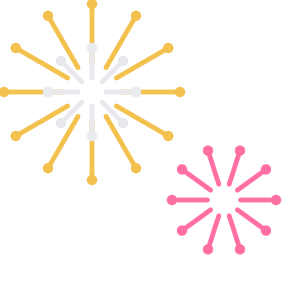
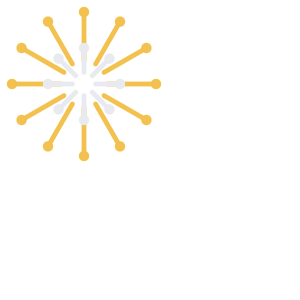
theme-pack: New Year: one burst per corner inside 100 px, a clock on sliders, streamers on chips

Changed region(s): [[0.0, 0.0, 0.63, 0.63], [0.54, 0.48, 0.96, 0.87]]

diff --git a/tools/theme-pack/packs/themes/newyear.js b/tools/theme-pack/packs/themes/newyear.js
@@ -1,17 +1,17 @@
 (function () {
-  // Midnight: confetti and sparkles drifting behind, a firework in each top corner, gold stars on panels and tiles, a gold star on every slider.
+  // Midnight: confetti and sparkles drifting behind, a firework in each top corner (kept inside 100 px so it clears panel titles), gold stars on panels, sparkles on tiles, streamers on chips and a clock on every slider.
   var SKY = '<svg style="position:absolute;left:468.6px;top:1017.4px;opacity:0.55" width="13" height="13" viewBox="0 0 24 24" aria-hidden="true"><g transform="rotate(321 12 12)"><rect x="6" y="3" width="12" height="18" rx="2" fill="#F2C14E"></rect></g></svg><svg style="position:absolute;left:1319.1px;top:283.5px;opacity:0.55" width="14" height="14" viewBox="0 0 24 24" aria-hidden="true"><circle cx="12" cy="12" r="8" fill="#E8EAF0"></circle></svg><svg style="position:absolute;left:679.1px;top:955.9px;opacity:0.55" width="20" height="20" viewBox="0 0 24 24" aria-hidden="true"><path d="M12 1C12.5 8 16 11.5 23 12C16 12.5 12.5 16 12 23C11.5 16 8 12.5 1 12C8 11.5 11.5 8 12 1Z" fill="#FF6FA3"></path></svg><svg style="position:absolute;left:1237.2px;top:927.8px;opacity:0.55" width="18" height="18" viewBox="0 0 24 24" aria-hidden="true"><g transform="rotate(132 12 12)"><rect x="6" y="3" width="12" height="18" rx="2" fill="#7CC4FF"></rect></g></svg><svg style="position:absolute;left:1835.9px;top:953.6px;opacity:0.55" width="12" height="12" viewBox="0 0 24 24" aria-hidden="true"><circle cx="12" cy="12" r="8" fill="#F2C14E"></circle></svg><svg style="position:absolute;left:1598.5px;top:630px;opacity:0.55" width="13" height="13" viewBox="0 0 24 24" aria-hidden="true"><path d="M12 1C12.5 8 16 11.5 23 12C16 12.5 12.5 16 12 23C11.5 16 8 12.5 1 12C8 11.5 11.5 8 12 1Z" fill="#E8EAF0"></path></svg><svg style="position:absolute;left:1535.8px;top:387.3px;opacity:0.55" width="12" height="12" viewBox="0 0 24 24" aria-hidden="true"><g transform="rotate(200 12 12)"><rect x="6" y="3" width="12" height="18" rx="2" fill="#FF6FA3"></rect></g></svg><svg style="position:absolute;left:1222.1px;top:452.3px;opacity:0.55" width="15" height="15" viewBox="0 0 24 24" aria-hidden="true"><circle cx="12" cy="12" r="8" fill="#7CC4FF"></circle></svg><svg style="position:absolute;left:1612px;top:243.7px;opacity:0.55" width="16" height="16" viewBox="0 0 24 24" aria-hidden="true"><path d="M12 1C12.5 8 16 11.5 23 12C16 12.5 12.5 16 12 23C11.5 16 8 12.5 1 12C8 11.5 11.5 8 12 1Z" fill="#F2C14E"></path></svg><svg style="position:absolute;left:1356.1px;top:891.9px;opacity:0.55" width="17" height="17" viewBox="0 0 24 24" aria-hidden="true"><g transform="rotate(292 12 12)"><rect x="6" y="3" width="12" height="18" rx="2" fill="#E8EAF0"></rect></g></svg><svg style="position:absolute;left:479.5px;top:571.3px;opacity:0.55" width="18" height="18" viewBox="0 0 24 24" aria-hidden="true"><circle cx="12" cy="12" r="8" fill="#FF6FA3"></circle></svg><svg style="position:absolute;left:1568.8px;top:130.5px;opacity:0.55" width="20" height="20" viewBox="0 0 24 24" aria-hidden="true"><path d="M12 1C12.5 8 16 11.5 23 12C16 12.5 12.5 16 12 23C11.5 16 8 12.5 1 12C8 11.5 11.5 8 12 1Z" fill="#7CC4FF"></path></svg><svg style="position:absolute;left:942.6px;top:36px;opacity:0.55" width="16" height="16" viewBox="0 0 24 24" aria-hidden="true"><g transform="rotate(8 12 12)"><rect x="6" y="3" width="12" height="18" rx="2" fill="#F2C14E"></rect></g></svg><svg style="position:absolute;left:1801.7px;top:506.3px;opacity:0.55" width="16" height="16" viewBox="0 0 24 24" aria-hidden="true"><circle cx="12" cy="12" r="8" fill="#E8EAF0"></circle></svg><svg style="position:absolute;left:1842.7px;top:640.7px;opacity:0.55" width="21" height="21" viewBox="0 0 24 24" aria-hidden="true"><path d="M12 1C12.5 8 16 11.5 23 12C16 12.5 12.5 16 12 23C11.5 16 8 12.5 1 12C8 11.5 11.5 8 12 1Z" fill="#FF6FA3"></path></svg><svg style="position:absolute;left:1282.8px;top:770.7px;opacity:0.55" width="20" height="20" viewBox="0 0 24 24" aria-hidden="true"><g transform="rotate(46 12 12)"><rect x="6" y="3" width="12" height="18" rx="2" fill="#7CC4FF"></rect></g></svg><svg style="position:absolute;left:1447.8px;top:268.5px;opacity:0.55" width="14" height="14" viewBox="0 0 24 24" aria-hidden="true"><circle cx="12" cy="12" r="8" fill="#F2C14E"></circle></svg><svg style="position:absolute;left:1742px;top:648.6px;opacity:0.55" width="21" height="21" viewBox="0 0 24 24" aria-hidden="true"><path d="M12 1C12.5 8 16 11.5 23 12C16 12.5 12.5 16 12 23C11.5 16 8 12.5 1 12C8 11.5 11.5 8 12 1Z" fill="#E8EAF0"></path></svg><svg style="position:absolute;left:1423px;top:589.8px;opacity:0.55" width="13" height="13" viewBox="0 0 24 24" aria-hidden="true"><g transform="rotate(122 12 12)"><rect x="6" y="3" width="12" height="18" rx="2" fill="#FF6FA3"></rect></g></svg><svg style="position:absolute;left:47.3px;top:361.6px;opacity:0.55" width="20" height="20" viewBox="0 0 24 24" aria-hidden="true"><circle cx="12" cy="12" r="8" fill="#7CC4FF"></circle></svg><svg style="position:absolute;left:222.7px;top:752.7px;opacity:0.55" width="14" height="14" viewBox="0 0 24 24" aria-hidden="true"><path d="M12 1C12.5 8 16 11.5 23 12C16 12.5 12.5 16 12 23C11.5 16 8 12.5 1 12C8 11.5 11.5 8 12 1Z" fill="#F2C14E"></path></svg><svg style="position:absolute;left:22.1px;top:216.2px;opacity:0.55" width="20" height="20" viewBox="0 0 24 24" aria-hidden="true"><g transform="rotate(131 12 12)"><rect x="6" y="3" width="12" height="18" rx="2" fill="#E8EAF0"></rect></g></svg><svg style="position:absolute;left:83.7px;top:318.1px;opacity:0.55" width="19" height="19" viewBox="0 0 24 24" aria-hidden="true"><circle cx="12" cy="12" r="8" fill="#FF6FA3"></circle></svg><svg style="position:absolute;left:664.3px;top:255.1px;opacity:0.55" width="20" height="20" viewBox="0 0 24 24" aria-hidden="true"><path d="M12 1C12.5 8 16 11.5 23 12C16 12.5 12.5 16 12 23C11.5 16 8 12.5 1 12C8 11.5 11.5 8 12 1Z" fill="#7CC4FF"></path></svg><svg style="position:absolute;left:1579.3px;top:217.4px;opacity:0.55" width="16" height="16" viewBox="0 0 24 24" aria-hidden="true"><g transform="rotate(115 12 12)"><rect x="6" y="3" width="12" height="18" rx="2" fill="#F2C14E"></rect></g></svg><svg style="position:absolute;left:1686.1px;top:992.1px;opacity:0.55" width="18" height="18" viewBox="0 0 24 24" aria-hidden="true"><circle cx="12" cy="12" r="8" fill="#E8EAF0"></circle></svg><svg style="position:absolute;left:615.4px;top:714.5px;opacity:0.55" width="12" height="12" viewBox="0 0 24 24" aria-hidden="true"><path d="M12 1C12.5 8 16 11.5 23 12C16 12.5 12.5 16 12 23C11.5 16 8 12.5 1 12C8 11.5 11.5 8 12 1Z" fill="#FF6FA3"></path></svg><svg style="position:absolute;left:335.7px;top:131.1px;opacity:0.55" width="18" height="18" viewBox="0 0 24 24" aria-hidden="true"><g transform="rotate(38 12 12)"><rect x="6" y="3" width="12" height="18" rx="2" fill="#7CC4FF"></rect></g></svg><svg style="position:absolute;left:887.1px;top:452.2px;opacity:0.55" width="21" height="21" viewBox="0 0 24 24" aria-hidden="true"><circle cx="12" cy="12" r="8" fill="#F2C14E"></circle></svg><svg style="position:absolute;left:1819.1px;top:568.8px;opacity:0.55" width="12" height="12" viewBox="0 0 24 24" aria-hidden="true"><path d="M12 1C12.5 8 16 11.5 23 12C16 12.5 12.5 16 12 23C11.5 16 8 12.5 1 12C8 11.5 11.5 8 12 1Z" fill="#E8EAF0"></path></svg><svg style="position:absolute;left:877.1px;top:660.7px;opacity:0.55" width="20" height="20" viewBox="0 0 24 24" aria-hidden="true"><g transform="rotate(152 12 12)"><rect x="6" y="3" width="12" height="18" rx="2" fill="#FF6FA3"></rect></g></svg><svg style="position:absolute;left:544.7px;top:100.7px;opacity:0.55" width="16" height="16" viewBox="0 0 24 24" aria-hidden="true"><circle cx="12" cy="12" r="8" fill="#7CC4FF"></circle></svg><svg style="position:absolute;left:35px;top:251.7px;opacity:0.55" width="19" height="19" viewBox="0 0 24 24" aria-hidden="true"><path d="M12 1C12.5 8 16 11.5 23 12C16 12.5 12.5 16 12 23C11.5 16 8 12.5 1 12C8 11.5 11.5 8 12 1Z" fill="#F2C14E"></path></svg><svg style="position:absolute;left:1007.9px;top:571.8px;opacity:0.55" width="19" height="19" viewBox="0 0 24 24" aria-hidden="true"><g transform="rotate(268 12 12)"><rect x="6" y="3" width="12" height="18" rx="2" fill="#E8EAF0"></rect></g></svg>';
-  var CORNER = '<svg width="150" height="150" viewBox="0 0 150 150" aria-hidden="true"><path d="M118.1 46.0L148.0 46.0" stroke="#F2C14E" stroke-width="2.4" stroke-linecap="round"></path><circle cx="148.0" cy="46.0" r="2.6" fill="#F2C14E"></circle><path d="M116.2 53.0L142.1 68.0" stroke="#F2C14E" stroke-width="2.4" stroke-linecap="round"></path><circle cx="142.1" cy="68.0" r="2.6" fill="#F2C14E"></circle><path d="M111.0 58.2L126.0 84.1" stroke="#F2C14E" stroke-width="2.4" stroke-linecap="round"></path><circle cx="126.0" cy="84.1" r="2.6" fill="#F2C14E"></circle><path d="M104.0 60.1L104.0 90.0" stroke="#F2C14E" stroke-width="2.4" stroke-linecap="round"></path><circle cx="104.0" cy="90.0" r="2.6" fill="#F2C14E"></circle><path d="M97.0 58.2L82.0 84.1" stroke="#F2C14E" stroke-width="2.4" stroke-linecap="round"></path><circle cx="82.0" cy="84.1" r="2.6" fill="#F2C14E"></circle><path d="M91.8 53.0L65.9 68.0" stroke="#F2C14E" stroke-width="2.4" stroke-linecap="round"></path><circle cx="65.9" cy="68.0" r="2.6" fill="#F2C14E"></circle><path d="M89.9 46.0L60.0 46.0" stroke="#F2C14E" stroke-width="2.4" stroke-linecap="round"></path><circle cx="60.0" cy="46.0" r="2.6" fill="#F2C14E"></circle><path d="M91.8 39.0L65.9 24.0" stroke="#F2C14E" stroke-width="2.4" stroke-linecap="round"></path><circle cx="65.9" cy="24.0" r="2.6" fill="#F2C14E"></circle><path d="M97.0 33.8L82.0 7.9" stroke="#F2C14E" stroke-width="2.4" stroke-linecap="round"></path><circle cx="82.0" cy="7.9" r="2.6" fill="#F2C14E"></circle><path d="M104.0 31.9L104.0 2.0" stroke="#F2C14E" stroke-width="2.4" stroke-linecap="round"></path><circle cx="104.0" cy="2.0" r="2.6" fill="#F2C14E"></circle><path d="M111.0 33.8L126.0 7.9" stroke="#F2C14E" stroke-width="2.4" stroke-linecap="round"></path><circle cx="126.0" cy="7.9" r="2.6" fill="#F2C14E"></circle><path d="M116.2 39.0L142.1 24.0" stroke="#F2C14E" stroke-width="2.4" stroke-linecap="round"></path><circle cx="142.1" cy="24.0" r="2.6" fill="#F2C14E"></circle><path d="M111.0 46.0L126.0 46.0" stroke="#E8EAF0" stroke-width="2.4" stroke-linecap="round"></path><circle cx="126.0" cy="46.0" r="2.6" fill="#E8EAF0"></circle><path d="M109.0 51.0L119.6 61.6" stroke="#E8EAF0" stroke-width="2.4" stroke-linecap="round"></path><circle cx="119.6" cy="61.6" r="2.6" fill="#E8EAF0"></circle><path d="M104.0 53.0L104.0 68.0" stroke="#E8EAF0" stroke-width="2.4" stroke-linecap="round"></path><circle cx="104.0" cy="68.0" r="2.6" fill="#E8EAF0"></circle><path d="M99.0 51.0L88.4 61.6" stroke="#E8EAF0" stroke-width="2.4" stroke-linecap="round"></path><circle cx="88.4" cy="61.6" r="2.6" fill="#E8EAF0"></circle><path d="M97.0 46.0L82.0 46.0" stroke="#E8EAF0" stroke-width="2.4" stroke-linecap="round"></path><circle cx="82.0" cy="46.0" r="2.6" fill="#E8EAF0"></circle><path d="M99.0 41.0L88.4 30.4" stroke="#E8EAF0" stroke-width="2.4" stroke-linecap="round"></path><circle cx="88.4" cy="30.4" r="2.6" fill="#E8EAF0"></circle><path d="M104.0 39.0L104.0 24.0" stroke="#E8EAF0" stroke-width="2.4" stroke-linecap="round"></path><circle cx="104.0" cy="24.0" r="2.6" fill="#E8EAF0"></circle><path d="M109.0 41.0L119.6 30.4" stroke="#E8EAF0" stroke-width="2.4" stroke-linecap="round"></path><circle cx="119.6" cy="30.4" r="2.6" fill="#E8EAF0"></circle><path d="M46.3 100.0L64.0 100.0" stroke="#FF6FA3" stroke-width="2.4" stroke-linecap="round"></path><circle cx="64.0" cy="100.0" r="2.6" fill="#FF6FA3"></circle><path d="M44.7 104.9L59.0 115.3" stroke="#FF6FA3" stroke-width="2.4" stroke-linecap="round"></path><circle cx="59.0" cy="115.3" r="2.6" fill="#FF6FA3"></circle><path d="M40.6 107.9L46.0 124.7" stroke="#FF6FA3" stroke-width="2.4" stroke-linecap="round"></path><circle cx="46.0" cy="124.7" r="2.6" fill="#FF6FA3"></circle><path d="M35.4 107.9L30.0 124.7" stroke="#FF6FA3" stroke-width="2.4" stroke-linecap="round"></path><circle cx="30.0" cy="124.7" r="2.6" fill="#FF6FA3"></circle><path d="M31.3 104.9L17.0 115.3" stroke="#FF6FA3" stroke-width="2.4" stroke-linecap="round"></path><circle cx="17.0" cy="115.3" r="2.6" fill="#FF6FA3"></circle><path d="M29.7 100.0L12.0 100.0" stroke="#FF6FA3" stroke-width="2.4" stroke-linecap="round"></path><circle cx="12.0" cy="100.0" r="2.6" fill="#FF6FA3"></circle><path d="M31.3 95.1L17.0 84.7" stroke="#FF6FA3" stroke-width="2.4" stroke-linecap="round"></path><circle cx="17.0" cy="84.7" r="2.6" fill="#FF6FA3"></circle><path d="M35.4 92.1L30.0 75.3" stroke="#FF6FA3" stroke-width="2.4" stroke-linecap="round"></path><circle cx="30.0" cy="75.3" r="2.6" fill="#FF6FA3"></circle><path d="M40.6 92.1L46.0 75.3" stroke="#FF6FA3" stroke-width="2.4" stroke-linecap="round"></path><circle cx="46.0" cy="75.3" r="2.6" fill="#FF6FA3"></circle><path d="M44.7 95.1L59.0 84.7" stroke="#FF6FA3" stroke-width="2.4" stroke-linecap="round"></path><circle cx="59.0" cy="84.7" r="2.6" fill="#FF6FA3"></circle></svg>';
-  var CORNER_L = '<svg width="150" height="150" viewBox="0 0 150 150" aria-hidden="true" style="-webkit-transform:scaleX(-1);transform:scaleX(-1)"><path d="M118.1 46.0L148.0 46.0" stroke="#F2C14E" stroke-width="2.4" stroke-linecap="round"></path><circle cx="148.0" cy="46.0" r="2.6" fill="#F2C14E"></circle><path d="M116.2 53.0L142.1 68.0" stroke="#F2C14E" stroke-width="2.4" stroke-linecap="round"></path><circle cx="142.1" cy="68.0" r="2.6" fill="#F2C14E"></circle><path d="M111.0 58.2L126.0 84.1" stroke="#F2C14E" stroke-width="2.4" stroke-linecap="round"></path><circle cx="126.0" cy="84.1" r="2.6" fill="#F2C14E"></circle><path d="M104.0 60.1L104.0 90.0" stroke="#F2C14E" stroke-width="2.4" stroke-linecap="round"></path><circle cx="104.0" cy="90.0" r="2.6" fill="#F2C14E"></circle><path d="M97.0 58.2L82.0 84.1" stroke="#F2C14E" stroke-width="2.4" stroke-linecap="round"></path><circle cx="82.0" cy="84.1" r="2.6" fill="#F2C14E"></circle><path d="M91.8 53.0L65.9 68.0" stroke="#F2C14E" stroke-width="2.4" stroke-linecap="round"></path><circle cx="65.9" cy="68.0" r="2.6" fill="#F2C14E"></circle><path d="M89.9 46.0L60.0 46.0" stroke="#F2C14E" stroke-width="2.4" stroke-linecap="round"></path><circle cx="60.0" cy="46.0" r="2.6" fill="#F2C14E"></circle><path d="M91.8 39.0L65.9 24.0" stroke="#F2C14E" stroke-width="2.4" stroke-linecap="round"></path><circle cx="65.9" cy="24.0" r="2.6" fill="#F2C14E"></circle><path d="M97.0 33.8L82.0 7.9" stroke="#F2C14E" stroke-width="2.4" stroke-linecap="round"></path><circle cx="82.0" cy="7.9" r="2.6" fill="#F2C14E"></circle><path d="M104.0 31.9L104.0 2.0" stroke="#F2C14E" stroke-width="2.4" stroke-linecap="round"></path><circle cx="104.0" cy="2.0" r="2.6" fill="#F2C14E"></circle><path d="M111.0 33.8L126.0 7.9" stroke="#F2C14E" stroke-width="2.4" stroke-linecap="round"></path><circle cx="126.0" cy="7.9" r="2.6" fill="#F2C14E"></circle><path d="M116.2 39.0L142.1 24.0" stroke="#F2C14E" stroke-width="2.4" stroke-linecap="round"></path><circle cx="142.1" cy="24.0" r="2.6" fill="#F2C14E"></circle><path d="M111.0 46.0L126.0 46.0" stroke="#E8EAF0" stroke-width="2.4" stroke-linecap="round"></path><circle cx="126.0" cy="46.0" r="2.6" fill="#E8EAF0"></circle><path d="M109.0 51.0L119.6 61.6" stroke="#E8EAF0" stroke-width="2.4" stroke-linecap="round"></path><circle cx="119.6" cy="61.6" r="2.6" fill="#E8EAF0"></circle><path d="M104.0 53.0L104.0 68.0" stroke="#E8EAF0" stroke-width="2.4" stroke-linecap="round"></path><circle cx="104.0" cy="68.0" r="2.6" fill="#E8EAF0"></circle><path d="M99.0 51.0L88.4 61.6" stroke="#E8EAF0" stroke-width="2.4" stroke-linecap="round"></path><circle cx="88.4" cy="61.6" r="2.6" fill="#E8EAF0"></circle><path d="M97.0 46.0L82.0 46.0" stroke="#E8EAF0" stroke-width="2.4" stroke-linecap="round"></path><circle cx="82.0" cy="46.0" r="2.6" fill="#E8EAF0"></circle><path d="M99.0 41.0L88.4 30.4" stroke="#E8EAF0" stroke-width="2.4" stroke-linecap="round"></path><circle cx="88.4" cy="30.4" r="2.6" fill="#E8EAF0"></circle><path d="M104.0 39.0L104.0 24.0" stroke="#E8EAF0" stroke-width="2.4" stroke-linecap="round"></path><circle cx="104.0" cy="24.0" r="2.6" fill="#E8EAF0"></circle><path d="M109.0 41.0L119.6 30.4" stroke="#E8EAF0" stroke-width="2.4" stroke-linecap="round"></path><circle cx="119.6" cy="30.4" r="2.6" fill="#E8EAF0"></circle><path d="M46.3 100.0L64.0 100.0" stroke="#FF6FA3" stroke-width="2.4" stroke-linecap="round"></path><circle cx="64.0" cy="100.0" r="2.6" fill="#FF6FA3"></circle><path d="M44.7 104.9L59.0 115.3" stroke="#FF6FA3" stroke-width="2.4" stroke-linecap="round"></path><circle cx="59.0" cy="115.3" r="2.6" fill="#FF6FA3"></circle><path d="M40.6 107.9L46.0 124.7" stroke="#FF6FA3" stroke-width="2.4" stroke-linecap="round"></path><circle cx="46.0" cy="124.7" r="2.6" fill="#FF6FA3"></circle><path d="M35.4 107.9L30.0 124.7" stroke="#FF6FA3" stroke-width="2.4" stroke-linecap="round"></path><circle cx="30.0" cy="124.7" r="2.6" fill="#FF6FA3"></circle><path d="M31.3 104.9L17.0 115.3" stroke="#FF6FA3" stroke-width="2.4" stroke-linecap="round"></path><circle cx="17.0" cy="115.3" r="2.6" fill="#FF6FA3"></circle><path d="M29.7 100.0L12.0 100.0" stroke="#FF6FA3" stroke-width="2.4" stroke-linecap="round"></path><circle cx="12.0" cy="100.0" r="2.6" fill="#FF6FA3"></circle><path d="M31.3 95.1L17.0 84.7" stroke="#FF6FA3" stroke-width="2.4" stroke-linecap="round"></path><circle cx="17.0" cy="84.7" r="2.6" fill="#FF6FA3"></circle><path d="M35.4 92.1L30.0 75.3" stroke="#FF6FA3" stroke-width="2.4" stroke-linecap="round"></path><circle cx="30.0" cy="75.3" r="2.6" fill="#FF6FA3"></circle><path d="M40.6 92.1L46.0 75.3" stroke="#FF6FA3" stroke-width="2.4" stroke-linecap="round"></path><circle cx="46.0" cy="75.3" r="2.6" fill="#FF6FA3"></circle><path d="M44.7 95.1L59.0 84.7" stroke="#FF6FA3" stroke-width="2.4" stroke-linecap="round"></path><circle cx="59.0" cy="84.7" r="2.6" fill="#FF6FA3"></circle></svg>';
+  var CORNER = '<svg width="150" height="150" viewBox="0 0 150 150" aria-hidden="true"><path d="M119.5 42.0L144.0 42.0" stroke="#F2C14E" stroke-width="2.4" stroke-linecap="round"></path><circle cx="144.0" cy="42.0" r="2.6" fill="#F2C14E"></circle><path d="M118.0 47.8L139.2 60.0" stroke="#F2C14E" stroke-width="2.4" stroke-linecap="round"></path><circle cx="139.2" cy="60.0" r="2.6" fill="#F2C14E"></circle><path d="M113.8 52.0L126.0 73.2" stroke="#F2C14E" stroke-width="2.4" stroke-linecap="round"></path><circle cx="126.0" cy="73.2" r="2.6" fill="#F2C14E"></circle><path d="M108.0 53.5L108.0 78.0" stroke="#F2C14E" stroke-width="2.4" stroke-linecap="round"></path><circle cx="108.0" cy="78.0" r="2.6" fill="#F2C14E"></circle><path d="M102.2 52.0L90.0 73.2" stroke="#F2C14E" stroke-width="2.4" stroke-linecap="round"></path><circle cx="90.0" cy="73.2" r="2.6" fill="#F2C14E"></circle><path d="M98.0 47.8L76.8 60.0" stroke="#F2C14E" stroke-width="2.4" stroke-linecap="round"></path><circle cx="76.8" cy="60.0" r="2.6" fill="#F2C14E"></circle><path d="M96.5 42.0L72.0 42.0" stroke="#F2C14E" stroke-width="2.4" stroke-linecap="round"></path><circle cx="72.0" cy="42.0" r="2.6" fill="#F2C14E"></circle><path d="M98.0 36.2L76.8 24.0" stroke="#F2C14E" stroke-width="2.4" stroke-linecap="round"></path><circle cx="76.8" cy="24.0" r="2.6" fill="#F2C14E"></circle><path d="M102.2 32.0L90.0 10.8" stroke="#F2C14E" stroke-width="2.4" stroke-linecap="round"></path><circle cx="90.0" cy="10.8" r="2.6" fill="#F2C14E"></circle><path d="M108.0 30.5L108.0 6.0" stroke="#F2C14E" stroke-width="2.4" stroke-linecap="round"></path><circle cx="108.0" cy="6.0" r="2.6" fill="#F2C14E"></circle><path d="M113.8 32.0L126.0 10.8" stroke="#F2C14E" stroke-width="2.4" stroke-linecap="round"></path><circle cx="126.0" cy="10.8" r="2.6" fill="#F2C14E"></circle><path d="M118.0 36.2L139.2 24.0" stroke="#F2C14E" stroke-width="2.4" stroke-linecap="round"></path><circle cx="139.2" cy="24.0" r="2.6" fill="#F2C14E"></circle><path d="M113.8 42.0L126.0 42.0" stroke="#E8EAF0" stroke-width="2.4" stroke-linecap="round"></path><circle cx="126.0" cy="42.0" r="2.6" fill="#E8EAF0"></circle><path d="M112.1 46.1L120.7 54.7" stroke="#E8EAF0" stroke-width="2.4" stroke-linecap="round"></path><circle cx="120.7" cy="54.7" r="2.6" fill="#E8EAF0"></circle><path d="M108.0 47.8L108.0 60.0" stroke="#E8EAF0" stroke-width="2.4" stroke-linecap="round"></path><circle cx="108.0" cy="60.0" r="2.6" fill="#E8EAF0"></circle><path d="M103.9 46.1L95.3 54.7" stroke="#E8EAF0" stroke-width="2.4" stroke-linecap="round"></path><circle cx="95.3" cy="54.7" r="2.6" fill="#E8EAF0"></circle><path d="M102.2 42.0L90.0 42.0" stroke="#E8EAF0" stroke-width="2.4" stroke-linecap="round"></path><circle cx="90.0" cy="42.0" r="2.6" fill="#E8EAF0"></circle><path d="M103.9 37.9L95.3 29.3" stroke="#E8EAF0" stroke-width="2.4" stroke-linecap="round"></path><circle cx="95.3" cy="29.3" r="2.6" fill="#E8EAF0"></circle><path d="M108.0 36.2L108.0 24.0" stroke="#E8EAF0" stroke-width="2.4" stroke-linecap="round"></path><circle cx="108.0" cy="24.0" r="2.6" fill="#E8EAF0"></circle><path d="M112.1 37.9L120.7 29.3" stroke="#E8EAF0" stroke-width="2.4" stroke-linecap="round"></path><circle cx="120.7" cy="29.3" r="2.6" fill="#E8EAF0"></circle></svg>';
+  var CORNER_L = '<svg width="150" height="150" viewBox="0 0 150 150" aria-hidden="true" style="-webkit-transform:scaleX(-1);transform:scaleX(-1)"><path d="M119.5 42.0L144.0 42.0" stroke="#F2C14E" stroke-width="2.4" stroke-linecap="round"></path><circle cx="144.0" cy="42.0" r="2.6" fill="#F2C14E"></circle><path d="M118.0 47.8L139.2 60.0" stroke="#F2C14E" stroke-width="2.4" stroke-linecap="round"></path><circle cx="139.2" cy="60.0" r="2.6" fill="#F2C14E"></circle><path d="M113.8 52.0L126.0 73.2" stroke="#F2C14E" stroke-width="2.4" stroke-linecap="round"></path><circle cx="126.0" cy="73.2" r="2.6" fill="#F2C14E"></circle><path d="M108.0 53.5L108.0 78.0" stroke="#F2C14E" stroke-width="2.4" stroke-linecap="round"></path><circle cx="108.0" cy="78.0" r="2.6" fill="#F2C14E"></circle><path d="M102.2 52.0L90.0 73.2" stroke="#F2C14E" stroke-width="2.4" stroke-linecap="round"></path><circle cx="90.0" cy="73.2" r="2.6" fill="#F2C14E"></circle><path d="M98.0 47.8L76.8 60.0" stroke="#F2C14E" stroke-width="2.4" stroke-linecap="round"></path><circle cx="76.8" cy="60.0" r="2.6" fill="#F2C14E"></circle><path d="M96.5 42.0L72.0 42.0" stroke="#F2C14E" stroke-width="2.4" stroke-linecap="round"></path><circle cx="72.0" cy="42.0" r="2.6" fill="#F2C14E"></circle><path d="M98.0 36.2L76.8 24.0" stroke="#F2C14E" stroke-width="2.4" stroke-linecap="round"></path><circle cx="76.8" cy="24.0" r="2.6" fill="#F2C14E"></circle><path d="M102.2 32.0L90.0 10.8" stroke="#F2C14E" stroke-width="2.4" stroke-linecap="round"></path><circle cx="90.0" cy="10.8" r="2.6" fill="#F2C14E"></circle><path d="M108.0 30.5L108.0 6.0" stroke="#F2C14E" stroke-width="2.4" stroke-linecap="round"></path><circle cx="108.0" cy="6.0" r="2.6" fill="#F2C14E"></circle><path d="M113.8 32.0L126.0 10.8" stroke="#F2C14E" stroke-width="2.4" stroke-linecap="round"></path><circle cx="126.0" cy="10.8" r="2.6" fill="#F2C14E"></circle><path d="M118.0 36.2L139.2 24.0" stroke="#F2C14E" stroke-width="2.4" stroke-linecap="round"></path><circle cx="139.2" cy="24.0" r="2.6" fill="#F2C14E"></circle><path d="M113.8 42.0L126.0 42.0" stroke="#E8EAF0" stroke-width="2.4" stroke-linecap="round"></path><circle cx="126.0" cy="42.0" r="2.6" fill="#E8EAF0"></circle><path d="M112.1 46.1L120.7 54.7" stroke="#E8EAF0" stroke-width="2.4" stroke-linecap="round"></path><circle cx="120.7" cy="54.7" r="2.6" fill="#E8EAF0"></circle><path d="M108.0 47.8L108.0 60.0" stroke="#E8EAF0" stroke-width="2.4" stroke-linecap="round"></path><circle cx="108.0" cy="60.0" r="2.6" fill="#E8EAF0"></circle><path d="M103.9 46.1L95.3 54.7" stroke="#E8EAF0" stroke-width="2.4" stroke-linecap="round"></path><circle cx="95.3" cy="54.7" r="2.6" fill="#E8EAF0"></circle><path d="M102.2 42.0L90.0 42.0" stroke="#E8EAF0" stroke-width="2.4" stroke-linecap="round"></path><circle cx="90.0" cy="42.0" r="2.6" fill="#E8EAF0"></circle><path d="M103.9 37.9L95.3 29.3" stroke="#E8EAF0" stroke-width="2.4" stroke-linecap="round"></path><circle cx="95.3" cy="29.3" r="2.6" fill="#E8EAF0"></circle><path d="M108.0 36.2L108.0 24.0" stroke="#E8EAF0" stroke-width="2.4" stroke-linecap="round"></path><circle cx="108.0" cy="24.0" r="2.6" fill="#E8EAF0"></circle><path d="M112.1 37.9L120.7 29.3" stroke="#E8EAF0" stroke-width="2.4" stroke-linecap="round"></path><circle cx="120.7" cy="29.3" r="2.6" fill="#E8EAF0"></circle></svg>';
   var ACCENT = '<svg width="100%" height="100%" viewBox="0 0 24 24" aria-hidden="true"><polygon points="12,2 14.9,8.6 22,9.3 16.6,14 18.2,21 12,17.3 5.8,21 7.4,14 2,9.3 9.1,8.6" fill="#F2C14E" stroke="#B8860B" stroke-width="1"></polygon></svg>';
   var TILE = '<svg width="100%" height="100%" viewBox="0 0 24 24" aria-hidden="true"><path d="M12 1C12.5 8 16 11.5 23 12C16 12.5 12.5 16 12 23C11.5 16 8 12.5 1 12C8 11.5 11.5 8 12 1Z" fill="#F2C14E"></path></svg>';
-  var CHIP = '<svg width="100%" height="100%" viewBox="0 0 24 24" aria-hidden="true"><path d="M12 1C12.5 8 16 11.5 23 12C16 12.5 12.5 16 12 23C11.5 16 8 12.5 1 12C8 11.5 11.5 8 12 1Z" fill="#FF6FA3"></path></svg>';
-  var THUMB = '<svg width="100%" height="100%" viewBox="0 0 24 24" aria-hidden="true"><polygon points="12,2 14.9,8.6 22,9.3 16.6,14 18.2,21 12,17.3 5.8,21 7.4,14 2,9.3 9.1,8.6" fill="#F2C14E" stroke="#B8860B" stroke-width="1"></polygon></svg>';
-  var KNOB = '<svg width="100%" height="100%" viewBox="0 0 40 40" aria-hidden="true"><circle cx="20" cy="20" r="18" fill="#FFF1C2"></circle><g transform="translate(8 8)"><polygon points="12,2 14.9,8.6 22,9.3 16.6,14 18.2,21 12,17.3 5.8,21 7.4,14 2,9.3 9.1,8.6" fill="#E0A82E"></polygon></g></svg>';
+  var CHIP = '<svg width="100%" height="100%" viewBox="0 0 24 24" aria-hidden="true"><path d="M3 21C3 11 10 17 12 8c1 8 9 3 9 13" stroke="#FF6FA3" stroke-width="3.500" fill="none" stroke-linecap="round"></path><circle cx="6" cy="6" r="2.500" fill="#7CC4FF"></circle><circle cx="19" cy="5" r="2" fill="#F2C14E"></circle></svg>';
+  var THUMB = '<svg width="100%" height="100%" viewBox="0 0 40 40" aria-hidden="true"><circle cx="20" cy="20" r="17" fill="#FFF1C2" stroke="#B8860B" stroke-width="3"></circle><path d="M20 20V8M20 20l7 5" stroke="#3A2A08" stroke-width="3" stroke-linecap="round"></path><circle cx="20" cy="20" r="2" fill="#3A2A08"></circle><path d="M20 4v3M36 20h-3M20 36v-3M4 20h3" stroke="#B8860B" stroke-width="2"></path></svg>';
+  var KNOB = '<svg width="100%" height="100%" viewBox="0 0 40 40" aria-hidden="true"><circle cx="20" cy="20" r="17" fill="#FFF1C2" stroke="rgba(30,20,40,0.5)" stroke-width="2"></circle><g transform="translate(8 8)"><polygon points="12,2 14.9,8.6 22,9.3 16.6,14 18.2,21 12,17.3 5.8,21 7.4,14 2,9.3 9.1,8.6" fill="#E0A82E"></polygon></g></svg>';
   var GLOW = '#F2C14E';
   var pack = {
     kind: 'theme', id: 'newyear', name: 'New Year',
-    description: 'Holiday: confetti and sparkles behind everything, a firework in each top corner, gold stars on panels, a gold glow on focus.',
+    description: 'Holiday: confetti and sparkles behind everything, a firework in each top corner, gold stars on panels, streamers on chips, a midnight clock on sliders, a gold glow on focus.',
     recipes: [
       { target: 'screen', slot: 'back', when: 'always', outset: 0, cost: 'static', html: SKY, asset: 'sky.png' },
       { target: 'screen', slot: 'front', when: 'always', outset: 0, cost: 'static', style: 'left:auto;bottom:auto;width:150px;height:150px', html: CORNER, asset: 'corner-right.png' },
@@ -19,7 +19,7 @@
       { target: 'panel', slot: 'front', when: 'always', outset: [30, 0, 0, -30], cost: 'static', style: 'right:auto;bottom:auto;width:44px;height:44px', html: ACCENT, asset: 'accent.png' },
       { target: 'toast', slot: 'front', when: 'always', outset: [30, 0, 0, -30], cost: 'static', style: 'right:auto;bottom:auto;width:44px;height:44px', html: ACCENT, asset: 'accent.png' },
       { target: 'dialog', slot: 'front', when: 'always', outset: [30, 0, 0, -30], cost: 'static', style: 'right:auto;bottom:auto;width:44px;height:44px', html: ACCENT, asset: 'accent.png' },
-      { target: 'tile', slot: 'front', when: 'always', outset: [18, 0, 0, 18], cost: 'static', style: 'right:auto;bottom:auto;width:36px;height:36px', html: TILE, asset: 'tile.png' },
+      { target: 'tile', slot: 'front', when: 'always', outset: [10, 0, 0, 10], cost: 'static', style: 'right:auto;bottom:auto;width:36px;height:36px', html: TILE, asset: 'tile.png' },
       { target: '*', slot: 'back', when: 'focused', outset: 26, cost: 'glow', fill: GLOW, radius: 56, blur: 16, opacity: 0.45 },
       { target: 'chip', slot: 'front', when: 'always', outset: [12, 0, 0, 12], cost: 'static', style: 'right:auto;bottom:auto;width:22px;height:22px', html: CHIP, asset: 'chip.png' },
       { target: 'thumb', slot: 'front', when: 'always', outset: 10, cost: 'static', html: THUMB, asset: 'thumb.png' },
